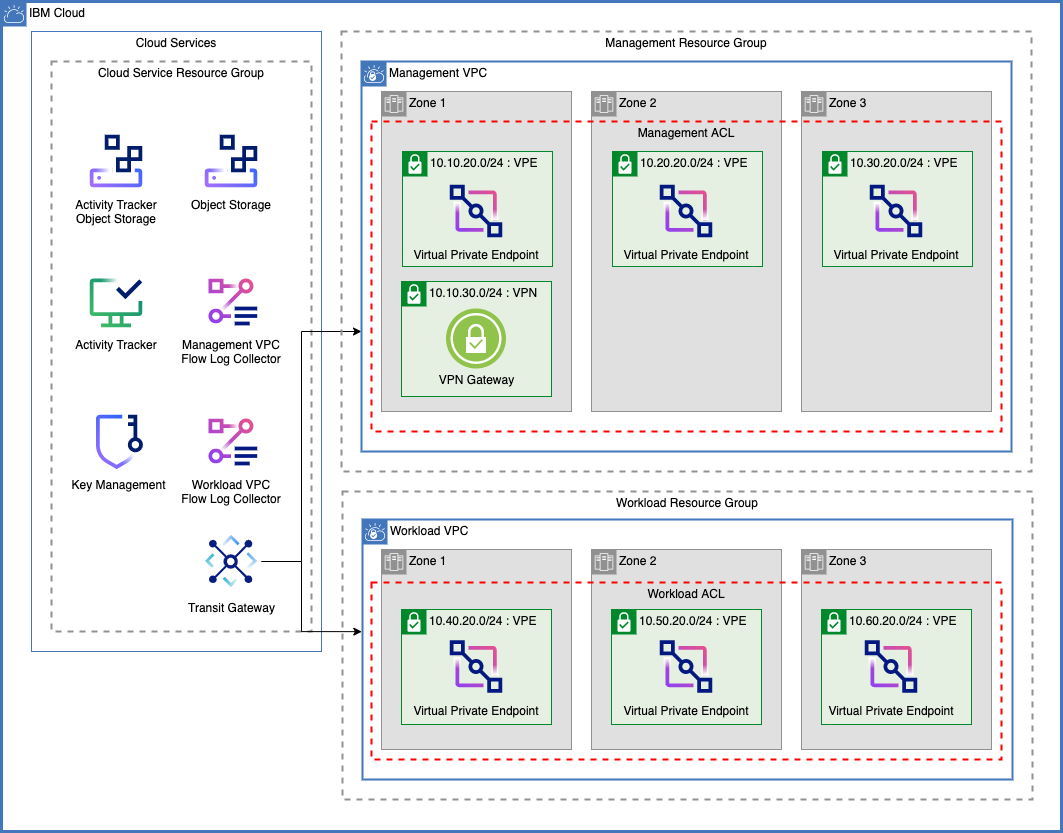
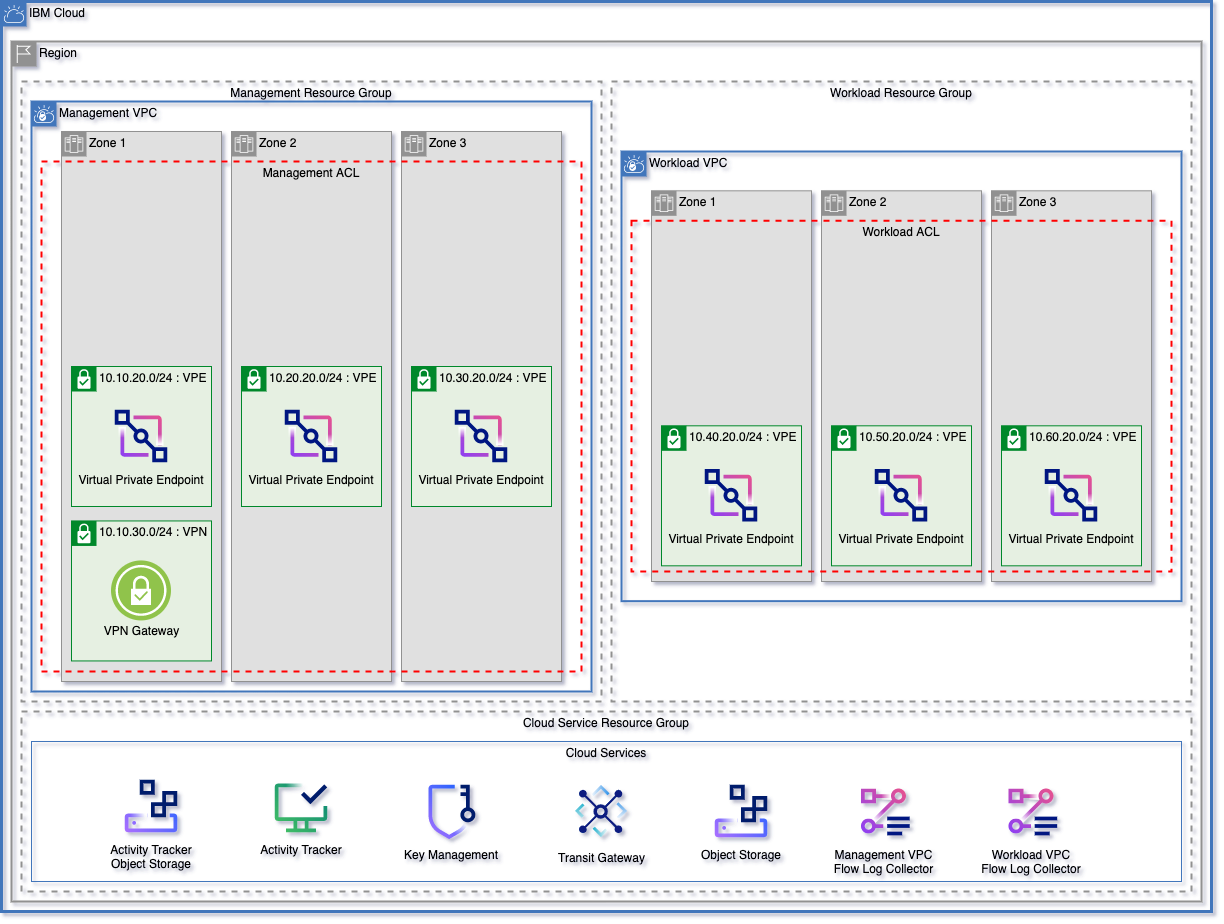
docs: updated images

diff --git a/tests/pr_test.go b/tests/pr_test.go
@@ -66,6 +66,20 @@ func sshPublicKey(t *testing.T) string {
 
 func setupOptions(t *testing.T, prefix string, dir string) *testhelper.TestOptions {
 
+	if dir == noComputeExampleTerraformDir {
+		options := testhelper.TestOptionsDefaultWithVars(&testhelper.TestOptions{
+			Testing:      t,
+			TerraformDir: dir,
+			Prefix:       prefix,
+			IgnoreUpdates: testhelper.Exemptions{
+				List: ignoreUpdates,
+			},
+			CloudInfoService: sharedInfoSvc,
+		})
+
+		return options
+	}
+
 	sshPublicKey := sshPublicKey(t)
 
 	options := testhelper.TestOptionsDefaultWithVars(&testhelper.TestOptions{

diff --git a/.docs/patterns/standard-pattern.md b/.docs/patterns/standard-pattern.md
@@ -22,6 +22,6 @@ The following components are configured through automation.
 | Management Cloud Object Storage Authorization for Hyper Protect Crypto Services and KeyProtect | Workload Cloud Object Storage Authorization for Hyper Protect Crypto Services and KeyProtect |
 | Management Flow Log, Flow log Cloud Object Storage buckets and authorization | Workload flow log, Flow log Cloud Object Storage buckets and authorization |
 | Management VPC | Workload VPC |
-| Management subnets for VSI, VPE, and VPN resources | Workload VPE gateway (for Cloud Object Storage) |
+| Management subnets for VPE and VPN resources | Workload VPE gateway (for Cloud Object Storage) |
 | Management VPE gateway (for Cloud Object Storage) | Workload VPE gateway (for Container Registry) |
 | Management VPE gateway (for Container Registry) |  |
